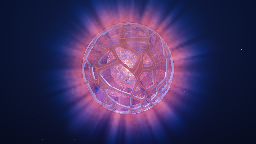
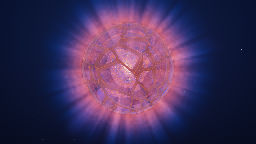
T1141: E55 Reactor — the junction: thin struts, and the jagged band was a plate seam through refraction
The owner: "jagged where the glass meets the frame … the frame may be too
thick." Struts thinned (frameWidth lane 0.10–0.20 → 0.06–0.12; strutDepth is
protrusion and stays, and thinning gave back none of the relief). The band took
four wrong fixes and an isolation: a small normal fillet at the glass/strut
junction (kept; a large one made every border a grazing-Fresnel rim), a
field-based strut/face decision at the found face point (kept), the strut rim
term cut (kept, it saturated on tangent flanks) — and the band survived all
three. Forcing the plates open removed it entirely: it was the seam glow of the
middle shell's shut plates during a collapse, seen through the outer shell's
refracting facets. The seam is a third as wide and half as bright.

The bloom claim now neutralises the saturation grade in both shots: an HSV
saturation boost after the composite is not monotone in luma, and six pixels
proved it. Timing with a control in the same run, under a doubled load: wide
1.01× control, graze outer 1.05×, graze middle 1.24×, dive centre 1.55×. Look
baseline on purpose: row 0.0258 → 0.0212, whole minute 0.0447 → 0.0348, range
0.687 → 0.555 (thinner struts, narrower seams). Seven Dawn claims green.

Claude-Session: https://claude.ai/code/session_01KHoYbvuVLAUaSYmDFm1CL3

Changed region(s): [[0.3125, 0.1389, 0.6875, 0.8611], [0.4688, 0.2778, 0.5, 0.3056]]

diff --git a/src/examples/shaders/reactor.wgsl.ts b/src/examples/shaders/reactor.wgsl.ts
@@ -446,8 +446,11 @@ fn shadeFrame(p: vec3f, n: vec3f, d: vec3f, k: i32, edge01: f32) -> vec3f {
           + light * 0.09 * mix(coreRGB(), vec3f(1.0), 0.5) * (0.5 + 0.5 * max(dot(n, -d), 0.0))
           + base * 0.25 * back * light * edgeRGB()
           + spec * light * 0.6 * mix(coreRGB(), vec3f(1.0), 0.5)
-          + rim * light * 0.35 * edgeRGB()
-          + env * (0.15 + 0.5 * rim);
+          // The rim term is small on purpose: a strut's flank is tangent to the view, so a
+          // strong rim saturated along every strut side and drew the band the owner read as
+          // "jagged where the glass meets the frame" (isolated with the relief off).
+          + rim * light * 0.08 * edgeRGB()
+          + env * (0.15 + 0.15 * rim);
   let bleed = smoothstep(0.55, 1.0, edge01) * light * 0.3 * coreRGB();
   return lit + bleed;
 }
@@ -586,12 +589,17 @@ fn trace(ro: vec3f, rd: vec3f, jitter: f32, uv: vec2f) -> vec3f {
         let sdFace = (rr - outerRadiusAt(normalize(ph))) * faceSign;
         if (sdFace < 0.0) {
           var lo = twPrev; var hi = tw;
-          for (var b: i32 = 0; b < 4; b = b + 1) {
+          for (var b: i32 = 0; b < 6; b = b + 1) {
             let mid = 0.5 * (lo + hi);
             let pm = o + d * mid;
             if ((length(pm) - outerRadiusAt(normalize(pm))) * faceSign < 0.0) { hi = mid; } else { lo = mid; }
           }
-          tw = hi; ph = o + d * tw; faceHit = true; break;
+          tw = hi; ph = o + d * tw;
+          // Strut or face is decided by the FIELD at the found face point, not by which
+          // threshold the walk tripped first: the walk-order decision cut the strut's base
+          // against the face in a ragged band.
+          if (strutSdf(ph, 0).x < 0.002) { hit = true; sdLast = 0.0; } else { faceHit = true; }
+          break;
         }
         twPrev = tw;
         // The floor on the step stays small: a floor longer than the strut distance breaks
@@ -621,7 +629,10 @@ fn trace(ro: vec3f, rd: vec3f, jitter: f32, uv: vec2f) -> vec3f {
         let c = cellEdge(shellDir(ph, 0), shellFreq(0), 0.0);
         let across = normalize(c.across - radial * dot(c.across, radial) + vec3f(1.0e-5));
         let onCrown = smoothstep(0.0, depth * 0.6, abs(rr - R));
-        let ns = normalize(radial * sign(rr - R) * (0.35 + onCrown) + across * (1.0 - onCrown) * 0.9);
+        // The flank leans back toward the shell normal at its base — the strut side of the
+        // same fillet the glass side rotates into — so the two normals meet, not step.
+        let base = smoothstep(depth * 0.5, depth * 1.0, abs(rr - R));
+        let ns = normalize(radial * sign(rr - R) * (0.35 + onCrown) + mix(radial * 0.35 + across * 0.65, across, base) * (1.0 - onCrown) * 0.9);
         let prof = 1.0 - clamp((c.edge - 0.0) / max(barWidthAt(c, 0), 1.0e-4), 0.0, 1.0);
         col = col + tp * shadeFrame(ph, ns, d, 0, prof);
         tp = vec3f(0.0);
@@ -661,10 +672,13 @@ fn trace(ro: vec3f, rd: vec3f, jitter: f32, uv: vec2f) -> vec3f {
       let w2 = barWidthAt(c2, k);
       let wall = c2.edge < w2 * 1.6;
       let n2 = select(nOut, normalize(c2.across - nOut * dot(c2.across, nOut) + vec3f(1.0e-5)) * -1.0, wall);
-      let seam = smoothstep(w2 + 0.3, w2, c2.edge);
+      // The seam is NARROW: a wide one, seen through the outer shell's refracting facets
+      // during a collapse, was the "jagged where the glass meets the frame" band — isolated
+      // by forcing the plates open, which removed it entirely.
+      let seam = smoothstep(w2 + 0.1, w2, c2.edge);
       let heat = coreLightBare(p2) * 0.6;
       let plate = shadeFrame(p2, n2, d, k, seam) * select(0.75, 0.35, wall)
-                + seam * seam * heat * 1.4 * mix(coreRGB(), vec3f(1.0, 0.9, 0.7), 0.3)
+                + seam * seam * heat * 0.7 * mix(coreRGB(), vec3f(1.0, 0.9, 0.7), 0.3)
                 + select(heat * 0.035 * coreRGB() * max(dot(n2, -d), 0.0), vec3f(0.0), wall);
       // TRANSLUCENT: the plate is not opaque — it adds its own lit colour and lets a share
       // of the ray through, so the core shows through a shut shell as a dull glow and a
@@ -683,9 +697,18 @@ fn trace(ro: vec3f, rd: vec3f, jitter: f32, uv: vec2f) -> vec3f {
       break;
     }
 
-    // Glass face: a per-cell facet, Fresnel-split.
+    // Glass face: a per-cell facet, Fresnel-split. THE JUNCTION (the owner: "jagged where
+    // the glass meets the frame"): Fresnel is a steep power of the normal, so a normal STEP
+    // at the strut border became a bright/dark stair, worst at grazing incidence. The facet
+    // tilt fades to nothing over a fillet band beside the strut and the glass normal rotates
+    // into the strut's flank there, so the normal is continuous across the junction.
     let tilt = (hash33(cell.id) - 0.5) * 2.0;
-    let nf = normalize(nOut + (tilt - nOut * dot(tilt, nOut)) * params.facet * 0.35);
+    let border = clamp((cell.edge - w) * 0.5 * shellRadius(k) / shellFreq(k) / 0.025, 0.0, 1.0);
+    let flank = normalize(cell.across - nOut * dot(cell.across, nOut) + vec3f(1.0e-5));
+    let nFacet = normalize(nOut + (tilt - nOut * dot(tilt, nOut)) * params.facet * 0.35 * border);
+    // A fillet is a SMALL rotation (~20°) — a bigger one turned every border into a grazing
+    // Fresnel rim, brighter than the stair it replaced.
+    let nf = normalize(mix(normalize(nOut + flank * 0.22), nFacet, smoothstep(0.0, 1.0, border)));
     let cosI = clamp(dot(-d, nf), 0.0, 1.0);
     let etaHere = select(1.0 / eta, eta, entering);
     // Schlick alone is ~3% head-on and only grows at grazing, so a colour that lives in it
@@ -700,7 +723,7 @@ fn trace(ro: vec3f, rd: vec3f, jitter: f32, uv: vec2f) -> vec3f {
     let lightHere = coreLightBare(p) * 0.6;
     col = col + tp * glassRGBk(k) * select(0.008, 0.02, k == 0) * lightHere;
     // The reflected share reads the core's glow, per channel offset by dispersion.
-    let dsp = params.dispersion * 0.6;
+    let dsp = params.dispersion * 0.35;
     let gR = coreGlow(p, normalize(refl + across3(nf) * dsp)).r;
     let gG = coreGlow(p, refl).g;
     let gB = coreGlow(p, normalize(refl - across3(nf) * dsp)).b;

diff --git a/src/examples/documents/reactor.ts b/src/examples/documents/reactor.ts
@@ -155,11 +155,26 @@ import { REACTOR_HAZE_WGSL, REACTOR_WGSL } from "../shaders/reactor.wgsl.ts";
  * 0.1002, last gap 0.0574); range 0.871 → 0.687 — the larger, emptier cells and the
  * bounded hue read lower on the instrument, on purpose, and the drop is not a regression.
  *
+ * THE JUNCTION (the owner: "the Fresnel relief or structure of the glass makes it look
+ * jagged where it meets the frame … the frame may be too thick"). Struts thinned:
+ * frameWidth lane 0.10..0.20 → 0.06..0.12 (width; `strutDepth` is protrusion and stays,
+ * and thinning gave back none of the relief). The jaggedness took four wrong fixes and an
+ * isolation to find — a normal fillet at the glass/strut junction (kept, small: 0.22 tilt
+ * over a 25 mm band; a bigger one turned every border into a grazing-Fresnel rim), a
+ * field-based strut/face decision at the found face point (kept), the strut rim term cut
+ * (kept, it was saturating on tangent flanks) — and the band survived every one of them.
+ * Forcing the plates OPEN removed it entirely: the band was the SEAM GLOW of the middle
+ * shell's shut plates during a collapse, seen through the outer shell's refracting facets,
+ * which break its edge. The seam is now a third as wide and half as bright. Timing with a
+ * control in the same run, under a load that doubled everything: wide 1.01× control,
+ * graze outer 1.05×, graze middle 1.24×, dive centre 1.55× (quiet-day absolutes: 17.1,
+ * 16.0, 19.0, 28.7 against 17.0/20.1).
+ *
  * DUTY (§V903/§V914 — 3600 frames of the pattern through the lanes):
  *   coreGain    = 4.2·level    + 0.5   (env1) → 0.733..2.671, mean 1.14, above retained 75%, hold 0
  *   laserGain   = 4.7·low      − 3.0   (env1) → 0.307..1.583, mean 0.63, retained 0.6 ≈ mean, hold 0
  *   facet       = 1.5·highMid  − 0.05  (env1) → 0.393..1.018, mean 0.71, above retained 74%, hold 0
- *   frameWidth  = 0.41·low     − 0.2   (env2) → 0.101..0.200, mean 0.12, above retained 34%, hold 1
+ *   frameWidth  = 0.25·low     − 0.12  (env2) → 0.064..0.124, mean 0.074, retained 0.07 ≈ median, hold 1
  *   shellGap    = 0.17·highMid + 0.118 (env2) → 0.170..0.239, mean 0.20, above retained 73%, hold 1
  *   swell       = 0.23·level   + 0.96  (env3) → 0.980..1.079, mean 1.00, above retained 28%, hold 1
  *   gain1.brightness = 6·level + 0.1   (env3) → the escalation; retained 1.3 inside the range
@@ -224,7 +239,7 @@ export const reactorDocument = document(
           shieldInner: expressionSlot("op('reactor1').par.shieldInner", 0),
           stations: expressionSlot("op('reactor1').par.stations", 1),
           travel: expressionSlot("op('reactor1').par.travel", 96),
-          frameWidth: expressionSlot("op('reactor1').par.frameWidth", 0.12),
+          frameWidth: expressionSlot("op('reactor1').par.frameWidth", 0.07),
           blocked: expressionSlot("op('reactor1').par.blocked", 0.1),
           strutDepth: expressionSlot("op('reactor1').par.strutDepth", 0.04),
           shellGap: expressionSlot("op('reactor1').par.shellGap", 0.26),
@@ -282,7 +297,7 @@ export const reactorDocument = document(
           laserGain: drivenSlot("lowb1:low", 0.6),
           facet: drivenSlot("highb1:highMid", 0.7),
           swell: drivenSlot("swellb1:level", 1),
-          frameWidth: drivenSlot("barb1:low", 0.12),
+          frameWidth: drivenSlot("barb1:low", 0.07),
           shellGap: drivenSlot("gapb1:highMid", 0.26),
           shieldOuter: drivenSlot("shieldo1:level", 0),
           shieldInner: drivenSlot("shieldi1:level", 0),
@@ -349,8 +364,8 @@ export const reactorDocument = document(
       node("lowb", "valueMath", [-300, 800], { operand: -3.0, operation: "add" }, { label: "lowb1" }),
       node("highx", "valueMath", [-600, 1000], { operand: 1.5, operation: "multiply" }, { label: "highx1" }),
       node("highb", "valueMath", [-300, 1000], { operand: -0.05, operation: "add" }, { label: "highb1" }),
-      node("barx", "valueMath", [-600, 1200], { operand: 0.41, operation: "multiply" }, { label: "barx1" }),
-      node("barb", "valueMath", [-300, 1200], { operand: -0.2, operation: "add" }, { label: "barb1" }),
+      node("barx", "valueMath", [-600, 1200], { operand: 0.25, operation: "multiply" }, { label: "barx1" }),
+      node("barb", "valueMath", [-300, 1200], { operand: -0.12, operation: "add" }, { label: "barb1" }),
       node("gapx", "valueMath", [-600, 1400], { operand: 0.2, operation: "multiply" }, { label: "gapx1" }),
       node("gapb", "valueMath", [-300, 1400], { operand: 0.16, operation: "add" }, { label: "gapb1" }),
       node("swellx", "valueMath", [-600, 1600], { operand: 0.23, operation: "multiply" }, { label: "swellx1" }),

diff --git a/src/examples/reactor-claims.gpu.test.ts b/src/examples/reactor-claims.gpu.test.ts
@@ -69,6 +69,12 @@ function noBloom(graph: GraphDocument): void {
   (graph.nodes["gain"]!.parameters as Record<string, unknown>)["brightness"] = 0;
   (graph.nodes["gain2"]!.parameters as Record<string, unknown>)["brightness"] = 0;
 }
+/** Neutralise the saturation grade: an HSV saturation boost after the composite is not monotone in
+    luma (adding a pale bloom to a saturated blue pixel desaturates it, and re-saturating lowers
+    its luma), so a claim about the BLOOM reads the frame before the grade's non-monotone step. */
+function noGrade(graph: GraphDocument): void {
+  (graph.nodes["grade"]!.parameters as Record<string, unknown>)["saturation"] = 1;
+}
 
 async function shoot(overrides: Record<string, unknown>, frames: readonly number[], mutate?: (graph: GraphDocument) => void): Promise<Shot[]> {
   const { graph, settings } = e55();
@@ -219,12 +225,12 @@ describe("E55 Reactor — claims", () => {
     expect(dawnError, dawnError ?? "").toBeUndefined();
     // The branch shipped DEAD for three rounds (cut1.brightness was 0, a multiplier) and no
     // gate noticed, because add(x, 0) = x. This is the wire-cut claim that would have.
-    const [lit] = await shoot({}, [60]);
+    const [lit] = await shoot({}, [60], noGrade);
     const { graph, settings } = e55();
     // `add` requires both inputs, so the branch is cut the way the defect cut it: both gains
     // at zero (gain1's brightness is a driven slot; the static 0 replaces it).
-    (graph.nodes["gain"]!.parameters as Record<string, unknown>)["brightness"] = 0;
-    (graph.nodes["gain2"]!.parameters as Record<string, unknown>)["brightness"] = 0;
+    noBloom(graph);
+    noGrade(graph);
     const result = await renderHeadless({ host: nodeGpuHost(), graph, settings, frames: 61, capture: [60], animate: true, fps: 60, outputNodeId: "out" });
     const errors = result.diagnostics.filter((d) => d.severity === "error");
     if (errors.length > 0) throw new Error(errors.map((d) => d.message).join("; "));

diff --git a/examples/E55-Reactor.md b/examples/E55-Reactor.md
@@ -7,7 +7,7 @@ An alien disco ball lit from inside: a churning core marched as an emissive volu
 The catalogue was read before this was shaped. The scene pipeline's glass is a screen-space read of what the opaque pass already drew, so glass behind glass does not refract; its lights are directional or point, with no medium a beam could be seen in. So `reactor1` does the optics itself, in E46 Lantern's lane taken into 3D:
 
 - **Analytic shells, one of them breathing.** Every shell is a sphere, so a crossing is a quadratic, not a march, and the ray hops from crossing to crossing. The outer shell's radius varies with direction and time (`wobble`, three slow travelling sines), so its silhouette evolves rather than only its pattern; that shell is the one whose crossing is marched anyway, and the walk finds the breathing face along with the struts.
-- **The frame.** A 3D Worley partition of the direction splits each shell into organic cells: few and large on the outer shell (`divisions`), more on each shell inward, so adjacent facets differ sharply in angle and take visibly different Fresnel values. That contrast between neighbouring faces is what makes a faceted surface read as geometry; a fine lattice reads as one smooth gradient, which is a sprite. Within `frameWidth` of a border the ray has hit a strut. On the outer shell the strut is a solid: a signed-distance tube of radial depth `strutDepth` along every border, marched through the shell band with the F2−F1 border measure halved so the step is a true lower bound (without that the walk stepped over struts at grazing incidence and drew a sawtooth along every edge), so struts stand proud of the faces, occlude the face behind them and break the silhouette, which a shaded sphere cannot do and which is what separates a skeleton from a paper ball. Struts are lit bodies with the core's light showing through the member, their width varying by cell. At rest the outer shell has no plates at all; each shell inward carries more (`blocked` is the innermost's share), so the core sits in containment you look through the open frame to see. The lattice morphs (`morph`): the direction is warped by three slow travelling sines before the cells are read, so faces grow and shrink and borders travel without ever snapping; a cell's identity is its grid cell, so a plate or a facet's tilt never flickers while its shape moves.
+- **The frame.** A 3D Worley partition of the direction splits each shell into organic cells: few and large on the outer shell (`divisions`), more on each shell inward, so adjacent facets differ sharply in angle and take visibly different Fresnel values. That contrast between neighbouring faces is what makes a faceted surface read as geometry; a fine lattice reads as one smooth gradient, which is a sprite. Within `frameWidth` of a border the ray has hit a strut. On the outer shell the strut is a solid: a signed-distance tube of radial depth `strutDepth` along every border, marched through the shell band with the F2−F1 border measure halved so the step is a true lower bound (without that the walk stepped over struts at grazing incidence and drew a sawtooth along every edge), so struts stand proud of the faces, occlude the face behind them and break the silhouette, which a shaded sphere cannot do and which is what separates a skeleton from a paper ball. Struts are lit bodies with the core's light showing through the member, their width varying by cell and thin (`frameWidth` 0.06 to 0.12 on the kick); width and protrusion are separate knobs, so thinning them gives back none of the relief. Where glass meets strut the facet tilt fades out and the glass normal rotates a few degrees into the strut's flank, so Fresnel sees no step at the junction. At rest the outer shell has no plates at all; each shell inward carries more (`blocked` is the innermost's share), so the core sits in containment you look through the open frame to see. The lattice morphs (`morph`): the direction is warped by three slow travelling sines before the cells are read, so faces grow and shrink and borders travel without ever snapping; a cell's identity is its grid cell, so a plate or a facet's tilt never flickers while its shape moves.
 - **The glass.** Each face is a facet: the sphere normal tilted by a per-cell random vector scaled by `facet`. Schlick Fresnel splits the ray, with a floor on the head-on reflectance tinted `glassColor` so the glass keeps its colour when a face turns toward you. The reflected share reads the core's glow per channel offset by `dispersion`; the transmitted share bends by Snell and walks on.
 - **The haze.** A thin medium lit by the core, gated by every shell between the sample and the origin: bright through the faces, dark under the struts and plates. A fine noise on the direction striates the beams along their length.
 - **The core.** Inside the innermost shell an emissive fbm volume churns on `absTime`, white-hot at the centre through `coreColor` to `edgeColor` at the rim, cut by radial filaments (`laserCount`, `laserGain`).
@@ -20,7 +20,7 @@ Measured on Dawn/Metal, the whole graph at 1280×720: about 16 ms a frame at the
 
 ## The two gestures
 
-**The collapse.** A drop is a transition, not a quiet level, so the detector is the slope of the slowest envelope: `drop1` differentiates `env3`, `dropx1` and `dropb1` map the top few percent of falls onto 0 to 1 (a beat's decay never fires it; a pulled-back bar shuts it fully), `dropc1` clamps, and two lags with a fast rise and a slow release close the outer shell first (`shieldOuter`) and the inner shells after (`shieldInner`), so the shielding cascades inward and opens in the same order. A raised shield raises the threshold every plate's hash is judged against, so plates close in hash order across the shell; at 1 the shell is solid. A shut plate is recessed behind its frame, because a shell of flush plates is a smooth sphere however it is lit; the ray continues to the inset surface and meets the strut's inner wall or the plate, and the plate is translucent: it adds its own lit colour and lets a share of the ray through, so the core shows through a shut shell as a dull glow and a panel lit from behind at a grazing angle reads as transmission. While the outer shell is shut the core's own radiance dies back to a third and its colour cools toward the rim colour, so the ball collapses and the light goes out rather than a lid closing on a lamp; a shut plate is contained light, not a dead hull: its seams glow where it meets the struts, a twelfth of the light leaks through its skin into the haze, and the whole thing opens back to full on a slow release, so a collapse lands for a couple of seconds instead of flickering past. `armt1` holds the shutters open for the first three seconds, because the pattern's opening hit decays like a drop and the rest state is the radiating one. `dropx1` and `dropb1` are the sensitivity; a real track has its own numbers.
+**The collapse.** A drop is a transition, not a quiet level, so the detector is the slope of the slowest envelope: `drop1` differentiates `env3`, `dropx1` and `dropb1` map the top few percent of falls onto 0 to 1 (a beat's decay never fires it; a pulled-back bar shuts it fully), `dropc1` clamps, and two lags with a fast rise and a slow release close the outer shell first (`shieldOuter`) and the inner shells after (`shieldInner`), so the shielding cascades inward and opens in the same order. A raised shield raises the threshold every plate's hash is judged against, so plates close in hash order across the shell; at 1 the shell is solid. A shut plate is recessed behind its frame, because a shell of flush plates is a smooth sphere however it is lit; the ray continues to the inset surface and meets the strut's inner wall or the plate, and the plate is translucent: it adds its own lit colour and lets a share of the ray through, so the core shows through a shut shell as a dull glow and a panel lit from behind at a grazing angle reads as transmission. Its lit seam is narrow, because a wide one seen through the outer shell's refracting facets during a collapse read as a jagged band where the glass meets the frame. While the outer shell is shut the core's own radiance dies back to a third and its colour cools toward the rim colour, so the ball collapses and the light goes out rather than a lid closing on a lamp; a shut plate is contained light, not a dead hull: its seams glow where it meets the struts, a twelfth of the light leaks through its skin into the haze, and the whole thing opens back to full on a slow release, so a collapse lands for a couple of seconds instead of flickering past. `armt1` holds the shutters open for the first three seconds, because the pattern's opening hit decays like a drop and the rest state is the radiating one. `dropx1` and `dropb1` are the sensitivity; a real track has its own numbers.
 
 **The escalation.** The tight bloom's gain rides `env3` with an aggressive range (`blowx1`, `blowb1`), so a sustained loud passage blows the core out and a quiet one lets it settle. The bloom is two widths: `cut1` remaps the highlights, `clamp1` floors the remap at zero (a Level is a remap, and a blurred negative field added back is a dark halo), `blur1` and `blur2` widen, `gain1` and `gain2` weight, `add1` and `add2` composite.
 
